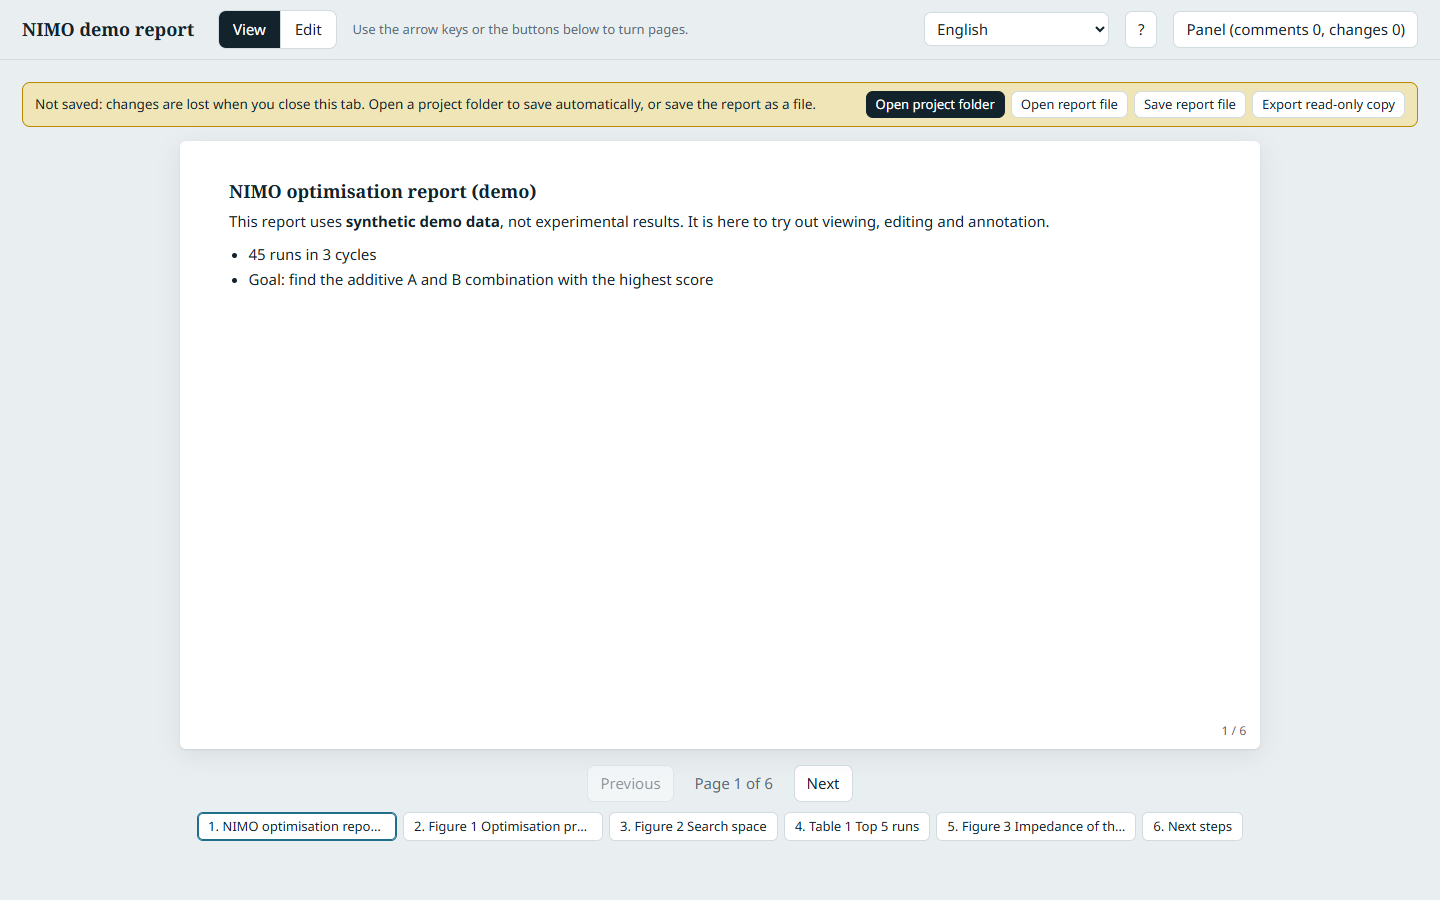
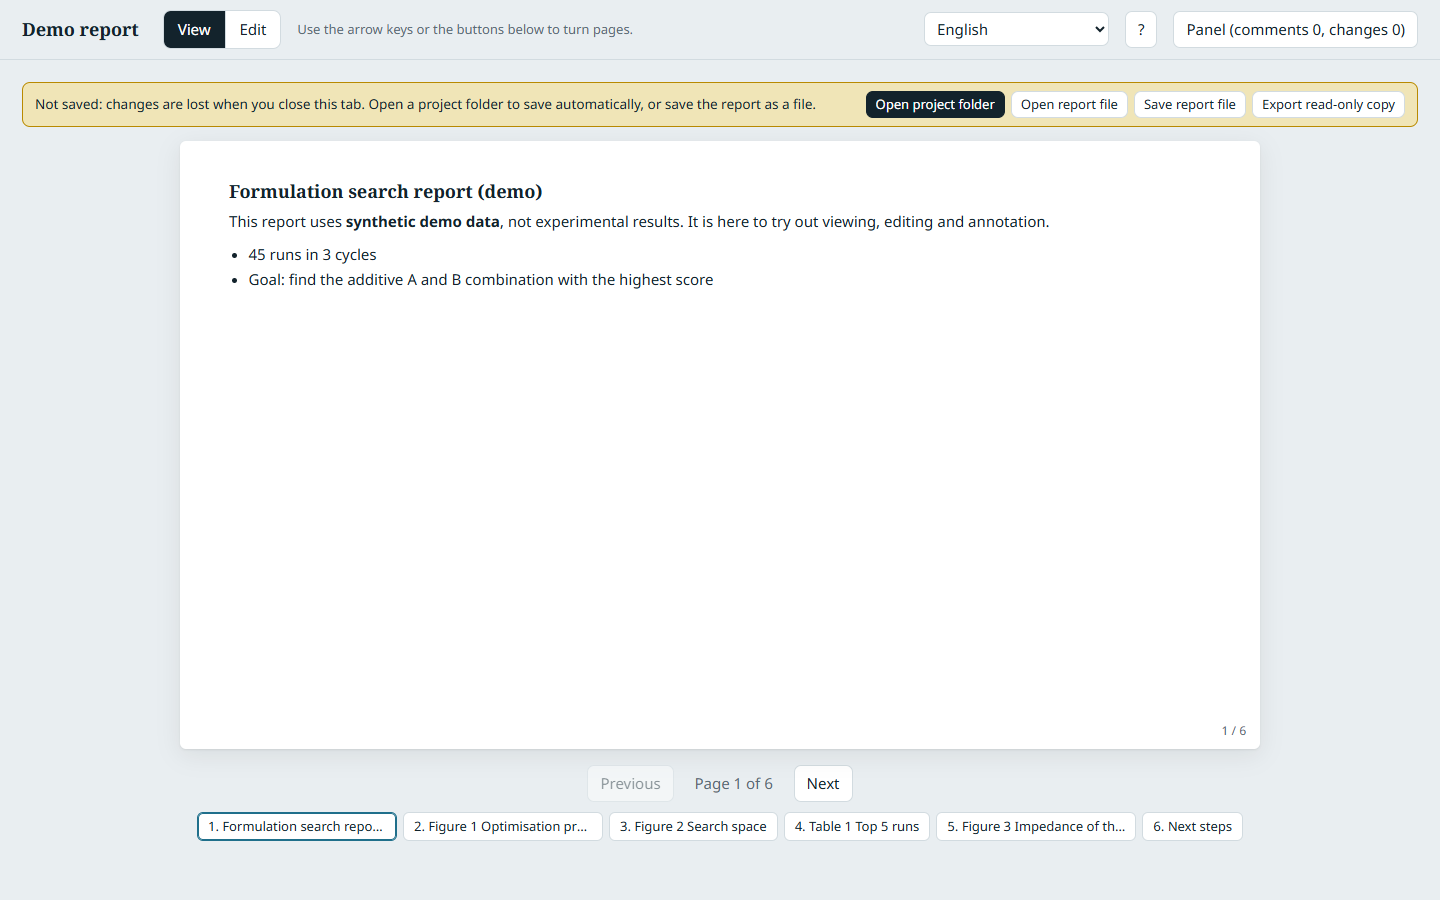
No real tool name in the demo; the top bar stays on long pages; new screenshots
The demo report and its interface strings are called Formulation search report
and Demo report. html and body were height: 100%, so on a page longer than one
screen the sticky top bar scrolled away; the body now grows with the page. The
tutorial screenshots are taken again, and the closing section points to what
Duetkifu adds.

Changed region(s): [[0.0, 0.0, 0.4688, 0.0622], [0.1562, 0.1867, 0.375, 0.2489], [0.1562, 0.9022, 0.25, 0.9333]]

diff --git a/duetsheet.html b/duetsheet.html
@@ -39,7 +39,7 @@
 :root:lang(zh-Hans){--sans:'Noto Sans','Noto Sans SC','PingFang SC','Microsoft YaHei',system-ui,sans-serif;--serif:'Noto Serif','Noto Serif SC','Songti SC','SimSun',serif}
 :root:lang(ja){--sans:'Noto Sans','Noto Sans JP','Hiragino Sans','Yu Gothic','Meiryo',system-ui,sans-serif;--serif:'Noto Serif','Noto Serif JP','Hiragino Mincho ProN','Yu Mincho',serif}
 :root:lang(ko){--sans:'Noto Sans','Noto Sans KR','Apple SD Gothic Neo','Malgun Gothic',system-ui,sans-serif;--serif:'Noto Serif','Noto Serif KR','AppleMyungjo','Batang',serif}
-html,body{height:100%}
+html{height:100%}body{min-height:100%} /* not height:100%: the body must grow with the page, or the sticky top bar scrolls away on a long page */
 html{scroll-padding-top:calc(env(safe-area-inset-top,0px) + 70px)}
 body{margin:0;background:var(--bg);color:var(--ink);font:15px/1.65 var(--sans)}
 h1,h2,.btitle{font-family:var(--serif);font-weight:700}
@@ -468,7 +468,7 @@ body.readonly #modes,body.readonly #togglePanel,body.readonly #note-db{display:n
  "Additive B (wt%)": "添加劑 B（wt%）",
  "Score": "分數",
  "Demo figure, not measured": "示範圖，非實測",
- "NIMO optimisation report (demo)": "NIMO 優化報告（示範）",
+ "Formulation search report (demo)": "配方搜尋報告（示範）",
  "This report uses **synthetic demo data**, not experimental results. It is here to try out viewing, editing and annotation.\n\n- 45 runs in 3 cycles\n- Goal: find the additive A and B combination with the highest score": "本報告使用**程式產生的示範資料**，不是實驗結果，用來測試閱覽與編輯註記的流程。\n\n- 共 45 次實驗，分成 3 個 Cycle\n- 目標：找出分數最高的添加劑 A、B 組合",
  "Figure 1  Optimisation progress": "圖 1　優化進度",
  "Each point is one run; the line connects runs in order; marker shape shows the cycle.": "每個點是一次實驗，折線依序連接各次的分數，形狀代表 Cycle。",
@@ -610,7 +610,7 @@ body.readonly #modes,body.readonly #togglePanel,body.readonly #note-db{display:n
  "Area too small. Drag a larger rectangle": "範圍太小，請拖曳大一點",
  "Lasso too small. Draw a larger closed shape": "圈選範圍太小，請畫大一點的封閉形狀",
  " | Duetsheet": "｜Duetsheet",
- "NIMO demo report": "NIMO 示範報告",
+ "Demo report": "示範報告",
  "Failed to read cloud data (": "讀取雲端資料失敗（",
  "unknown": "未知",
  "). Please reload.": "），請重新整理。",
@@ -1114,7 +1114,7 @@ body.readonly #modes,body.readonly #togglePanel,body.readonly #note-db{display:n
  "Additive B (wt%)": "添加剂 B（wt%）",
  "Score": "分数",
  "Demo figure, not measured": "示例图，非实测",
- "NIMO optimisation report (demo)": "NIMO 优化报告（示例）",
+ "Formulation search report (demo)": "配方搜索报告（示例）",
  "This report uses **synthetic demo data**, not experimental results. It is here to try out viewing, editing and annotation.\n\n- 45 runs in 3 cycles\n- Goal: find the additive A and B combination with the highest score": "本报告使用**程序生成的示例数据**，不是实验结果，用来试用浏览、编辑和批注功能。\n\n- 共 45 次实验，分为 3 个 Cycle\n- 目标：找出分数最高的添加剂 A、B 组合",
  "Figure 1  Optimisation progress": "图 1　优化进度",
  "Each point is one run; the line connects runs in order; marker shape shows the cycle.": "每个点是一次实验，折线按顺序连接各次的分数，形状代表 Cycle。",
@@ -1256,7 +1256,7 @@ body.readonly #modes,body.readonly #togglePanel,body.readonly #note-db{display:n
  "Area too small. Drag a larger rectangle": "范围太小，请拖得大一些",
  "Lasso too small. Draw a larger closed shape": "圈选范围太小，请画一个大一些的封闭形状",
  " | Duetsheet": "｜Duetsheet",
- "NIMO demo report": "NIMO 示例报告",
+ "Demo report": "示例报告",
  "Failed to read cloud data (": "读取云端数据失败（",
  "unknown": "未知",
  "). Please reload.": "），请刷新页面。",
@@ -1760,7 +1760,7 @@ body.readonly #modes,body.readonly #togglePanel,body.readonly #note-db{display:n
  "Additive B (wt%)": "添加剤 B（wt%）",
  "Score": "スコア",
  "Demo figure, not measured": "デモ用の図（実測ではありません）",
- "NIMO optimisation report (demo)": "NIMO 最適化レポート（デモ）",
+ "Formulation search report (demo)": "配合探索レポート（デモ）",
  "This report uses **synthetic demo data**, not experimental results. It is here to try out viewing, editing and annotation.\n\n- 45 runs in 3 cycles\n- Goal: find the additive A and B combination with the highest score": "このレポートは実験結果ではなく、**プログラムで生成したデモデータ**を使っています。閲覧・編集・コメントの流れを試すためのものです。\n\n- 全 45 回の実験、3 つの Cycle\n- 目標：スコアが最も高い添加剤 A・B の組み合わせを見つける",
  "Figure 1  Optimisation progress": "図 1　最適化の進捗",
  "Each point is one run; the line connects runs in order; marker shape shows the cycle.": "各点が 1 回の実験です。線は実験を順につなぎ、マーカーの形は Cycle を表します。",
@@ -1902,7 +1902,7 @@ body.readonly #modes,body.readonly #togglePanel,body.readonly #note-db{display:n
  "Area too small. Drag a larger rectangle": "範囲が小さすぎます。もっと大きくドラッグしてください",
  "Lasso too small. Draw a larger closed shape": "なげなわの範囲が小さすぎます。もっと大きな閉じた形を描いてください",
  " | Duetsheet": "｜Duetsheet",
- "NIMO demo report": "NIMO デモレポート",
+ "Demo report": "デモレポート",
  "Failed to read cloud data (": "クラウドのデータを読み込めませんでした（",
  "unknown": "不明",
  "). Please reload.": "）。ページを再読み込みしてください。",
@@ -2406,7 +2406,7 @@ body.readonly #modes,body.readonly #togglePanel,body.readonly #note-db{display:n
  "Additive B (wt%)": "첨가제 B (wt%)",
  "Score": "점수",
  "Demo figure, not measured": "데모용 그림, 실측 아님",
- "NIMO optimisation report (demo)": "NIMO 최적화 보고서 (데모)",
+ "Formulation search report (demo)": "배합 탐색 보고서 (데모)",
  "This report uses **synthetic demo data**, not experimental results. It is here to try out viewing, editing and annotation.\n\n- 45 runs in 3 cycles\n- Goal: find the additive A and B combination with the highest score": "이 보고서는 실험 결과가 아닌 **프로그램으로 생성한 데모 데이터**를 사용합니다. 보기, 편집, 주석 기능을 시험해 보기 위한 것입니다.\n\n- 총 45회 실험, 3개 Cycle\n- 목표: 점수가 가장 높은 첨가제 A, B 조합 찾기",
  "Figure 1  Optimisation progress": "그림 1  최적화 진행 상황",
  "Each point is one run; the line connects runs in order; marker shape shows the cycle.": "각 점은 한 번의 실험이며, 선은 실험을 순서대로 잇고, 마커 모양은 Cycle을 나타냅니다.",
@@ -2548,7 +2548,7 @@ body.readonly #modes,body.readonly #togglePanel,body.readonly #note-db{display:n
  "Area too small. Drag a larger rectangle": "범위가 너무 작습니다. 더 크게 드래그하세요",
  "Lasso too small. Draw a larger closed shape": "올가미 범위가 너무 작습니다. 더 큰 닫힌 모양을 그리세요",
  " | Duetsheet": " | Duetsheet",
- "NIMO demo report": "NIMO 데모 보고서",
+ "Demo report": "데모 보고서",
  "Failed to read cloud data (": "클라우드 데이터를 읽지 못했습니다 (",
  "unknown": "알 수 없음",
  "). Please reload.": "). 페이지를 새로 고치세요.",
@@ -3052,7 +3052,7 @@ body.readonly #modes,body.readonly #togglePanel,body.readonly #note-db{display:n
  "Additive B (wt%)": "Aditivo B (% en peso)",
  "Score": "Puntuación",
  "Demo figure, not measured": "Figura de demostración, no medida",
- "NIMO optimisation report (demo)": "Informe de optimización NIMO (demostración)",
+ "Formulation search report (demo)": "Informe de búsqueda de formulación (demostración)",
  "This report uses **synthetic demo data**, not experimental results. It is here to try out viewing, editing and annotation.\n\n- 45 runs in 3 cycles\n- Goal: find the additive A and B combination with the highest score": "Este informe usa **datos de demostración sintéticos**, no resultados experimentales. Sirve para probar la lectura, la edición y los comentarios.\n\n- 45 ensayos en 3 ciclos\n- Objetivo: encontrar la combinación de aditivos A y B con la puntuación más alta",
  "Figure 1  Optimisation progress": "Figura 1  Progreso de la optimización",
  "Each point is one run; the line connects runs in order; marker shape shows the cycle.": "Cada punto es un ensayo; la línea une los ensayos en orden; la forma del marcador indica el ciclo.",
@@ -3194,7 +3194,7 @@ body.readonly #modes,body.readonly #togglePanel,body.readonly #note-db{display:n
  "Area too small. Drag a larger rectangle": "Área demasiado pequeña. Arrastra un rectángulo más grande",
  "Lasso too small. Draw a larger closed shape": "Lazo demasiado pequeño. Dibuja una forma cerrada más grande",
  " | Duetsheet": " | Duetsheet",
- "NIMO demo report": "Informe de demostración NIMO",
+ "Demo report": "Informe de demostración",
  "Failed to read cloud data (": "No se pudieron leer los datos en la nube (",
  "unknown": "desconocido",
  "). Please reload.": "). Vuelve a cargar la página.",
@@ -3878,7 +3878,7 @@ function nyquistSVG(){
 function seedBlocks(){
   const B=(id,o)=>({id,title:'',caption:'',breakBefore:'auto',...o});
   return [
-    B('b-intro',{type:'text',title:tr('NIMO optimisation report (demo)'),text:tr('This report uses **synthetic demo data**, not experimental results. It is here to try out viewing, editing and annotation.\n\n- 45 runs in 3 cycles\n- Goal: find the additive A and B combination with the highest score')}),
+    B('b-intro',{type:'text',title:tr('Formulation search report (demo)'),text:tr('This report uses **synthetic demo data**, not experimental results. It is here to try out viewing, editing and annotation.\n\n- 45 runs in 3 cycles\n- Goal: find the additive A and B combination with the highest score')}),
     B('b-fig1',{type:'chart',title:tr('Figure 1  Optimisation progress'),caption:tr('Each point is one run; the line connects runs in order; marker shape shows the cycle.'),
       chart:{kind:'line',dataset:'exp',x:'id',y:'score',color:'cycle',logY:false,yMin:null,yMax:null}}),
     B('b-fig1-note',{type:'text',breakBefore:'avoid',text:tr('In Cycle 3, scores cluster between 0.7 and 0.96, clearly above the first two cycles, which suggests the search has converged on a high-scoring region.')}),
@@ -6117,7 +6117,7 @@ async function seedIfEmpty(){
   const ds=seedData(),blocks=seedBlocks(),t=now();
   await db.doc('datasets/'+ds.id).set(ds);
   for(const b of blocks)await db.doc('blocks/'+b.id).set({...b,createdAt:t});
-  await db.doc('report/meta').set({title:tr('NIMO demo report'),order:blocks.map(b=>b.id),schema:SCHEMA,createdAt:t});
+  await db.doc('report/meta').set({title:tr('Demo report'),order:blocks.map(b=>b.id),schema:SCHEMA,createdAt:t});
 }
 function subscribe(){
   const fail=e=>{const m=tr('Failed to read cloud data (')+((e&&e.code)||tr('unknown'))+tr('). Please reload.');showNote(m);logIssue('error',m,errText(e))};

diff --git a/docs/tutorial.md b/docs/tutorial.md
@@ -197,3 +197,5 @@ Errors and warnings do not just flash by: a **⚠** button appears at the top ri
 ## Going further: the whole research record
 
 A report tells the finished story. To keep every attempt that led there, the dead ends included, as a tree you and your agent write together and can recompute, see [Duetkifu](https://github.com/Ashur5457/duetkifu). It reads the same `report.json`.
+
+Duetkifu also goes further on the report side: you can ask the agent about a figure or a passage while you only read (draw around part of a figure, or select some text), arrange the page and use a floating side panel, undo your own changes, and take snapshots from a File menu. Its [tutorial](https://github.com/Ashur5457/duetkifu/blob/main/docs/tutorial.md) has short clips of each.
